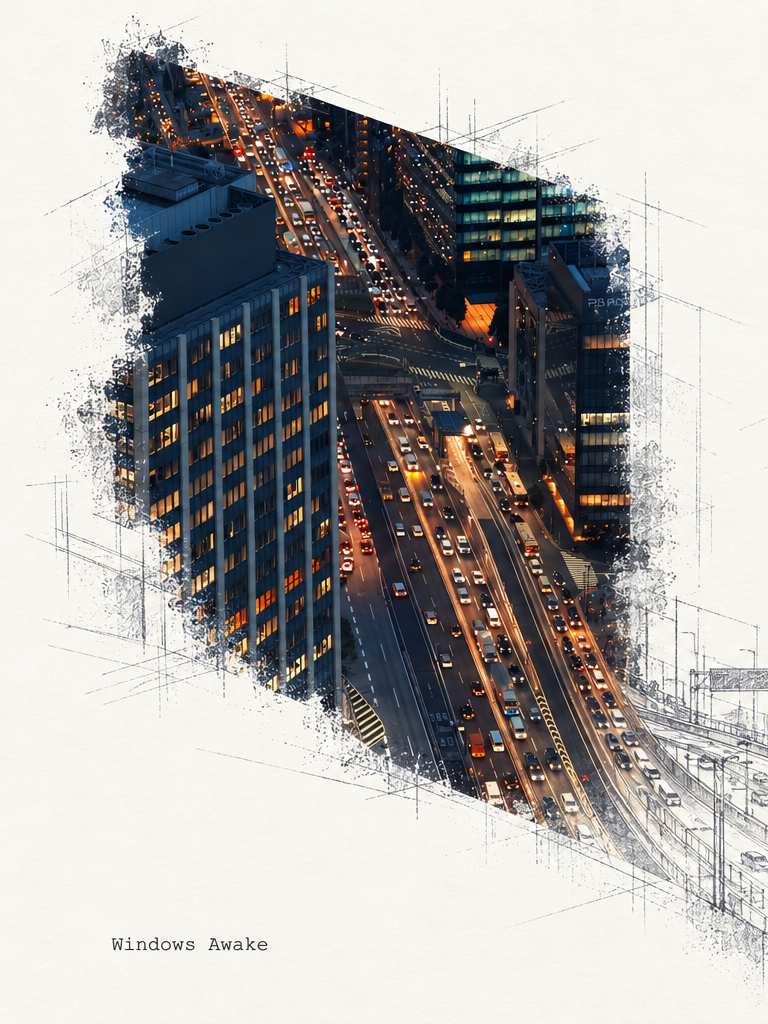
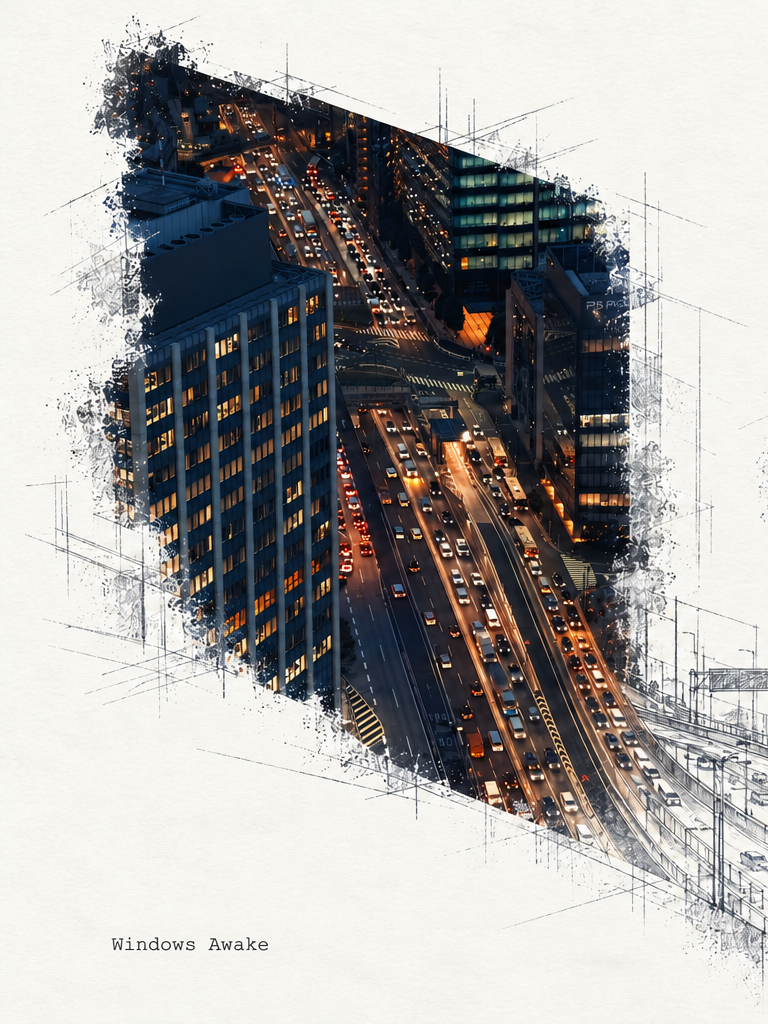
修改日本相册部分图片

Changed region(s): [[0.0625, 0.0312, 1.0, 0.9688], [0.2812, 0.9062, 0.3438, 0.9375]]

diff --git a/japan/src/edition.js b/japan/src/edition.js
@@ -17,7 +17,7 @@ function openImage({ source, label, note }) {
 }
 function openArtwork(n = currentSpread) {
  const c=chapter(n);
- openImage({source:`assets/spreads/${c.id}.png`,label:n===0||n===backIndex?'Outside cover · back on left, front on right':`${String(n).padStart(2,'0')} · ${c.title}`,note:'Designed artwork · close to continue reading'});
+ openImage({source:c.artwork || `assets/spreads/${c.id}.png`,label:n===0||n===backIndex?'Outside cover · back on left, front on right':`${String(n).padStart(2,'0')} · ${c.title}`,note:'Designed artwork · close to continue reading'});
 }
 export function updateEditionStatus(n) {
  currentSpread=n;const c=chapter(n);
@@ -37,7 +37,7 @@ export function setupEdition(options) {
  list.forEach((c,i)=>{
   const b=document.createElement('button');b.className='chapter-card';b.dataset.chapter=i;
   b.setAttribute('aria-label',`Open ${c.title}`);
-  const img=document.createElement('img');img.src=asset(`assets/spreads/${c.id}.png`);img.alt=c.description||c.title;img.loading='lazy';
+  const img=document.createElement('img');img.src=asset(c.artwork || `assets/spreads/${c.id}.png`);img.alt=c.description||c.title;img.loading='lazy';
   const label=document.createElement('span');const number=document.createElement('small');number.textContent=i===0?'START':i===backIndex?'END':String(i).padStart(2,'0');label.append(number,document.createTextNode(c.title));
   b.append(img,label);b.addEventListener('click',()=>{const ok=jumpTo(i);$('#contents-dialog').close();if(!ok)openArtwork(i);});$('#contents-grid').append(b);
  });

diff --git a/japan/src/books.js b/japan/src/books.js
@@ -149,6 +149,7 @@ export const books = [
       {
         "id": "e06",
         "title": "Windows Awake",
+        "artwork": "assets/spreads/e06.webp",
         "description": "Windows Awake",
         "section": "After the Lights"
       },
@@ -167,6 +168,7 @@ export const books = [
       {
         "id": "07",
         "title": "Under the Eaves",
+        "artwork": "assets/spreads/07.webp",
         "description": "Under the Eaves",
         "section": "After the Lights"
       },
